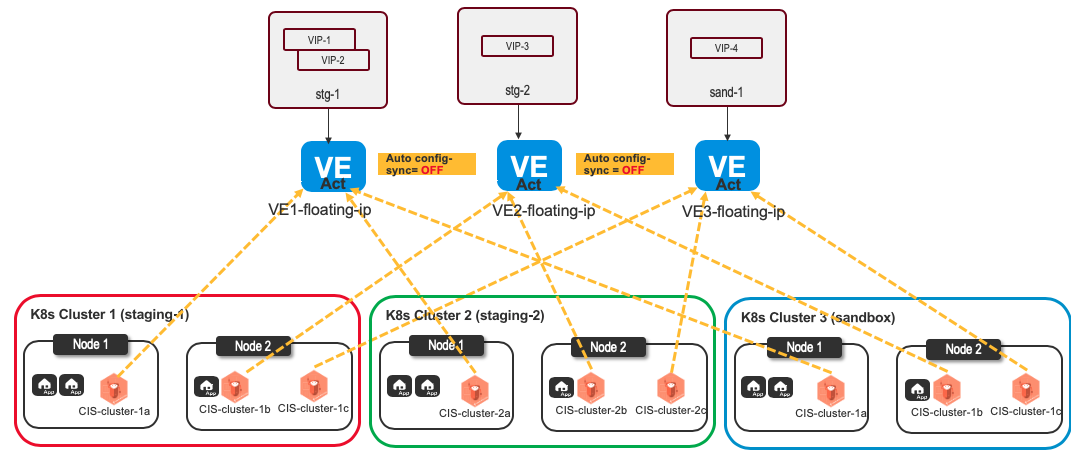
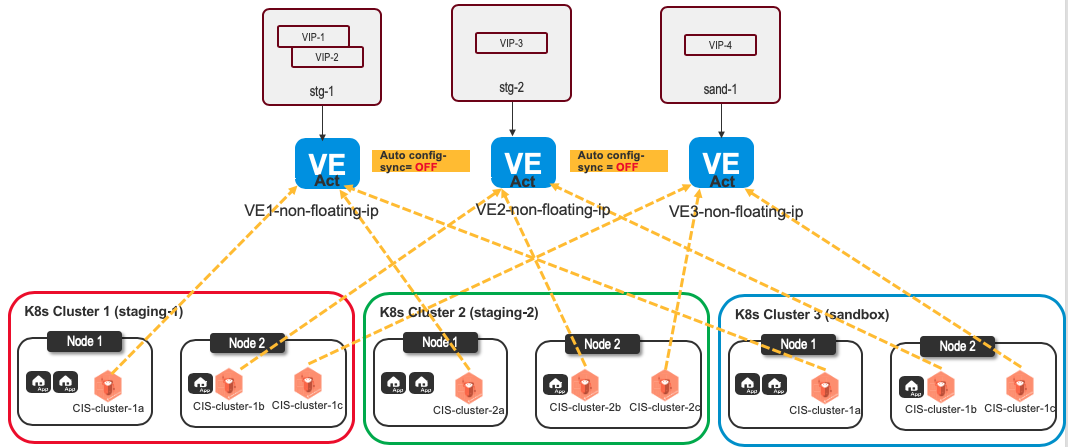
modifying tips/caveats for multi CIS pattern

diff --git a/docs/class2/module2/module2.rst b/docs/class2/module2/module2.rst
@@ -11,6 +11,14 @@ This design pattern is similar to the previous design except auto config-sync is
 
 Configuration tips and caveats
 ------------------
-- Ensure no more than 3 CIS point to a single VE (max tested)
+- Ensure no more than 3 Controllers point to a single VE (max tested)
+- Configure the VE non-floating Self-IP in :code:`--bigip-url`
+    - Since there is one Controller per BIG-IP, no need to configure a floating IP
+- Provide a unique metadata.name for each Controller
+- Provide a unique :code:`--bigip-url` in each Deployment (each Controller manages a separate BIG-IP device)
+- Use the same :code:`--bigip-partition` in all Deployments
+- Do not define multiple Deployment configs in a single manifest.
+    - If you launch multiple BIG-IP Controller instances using a single manifest, they will run on the same Pod. This means that if the Pod goes down, you lose all of your Controllers.
+
 
 .. |mod-2-1| image:: images/mod-2-1.png
